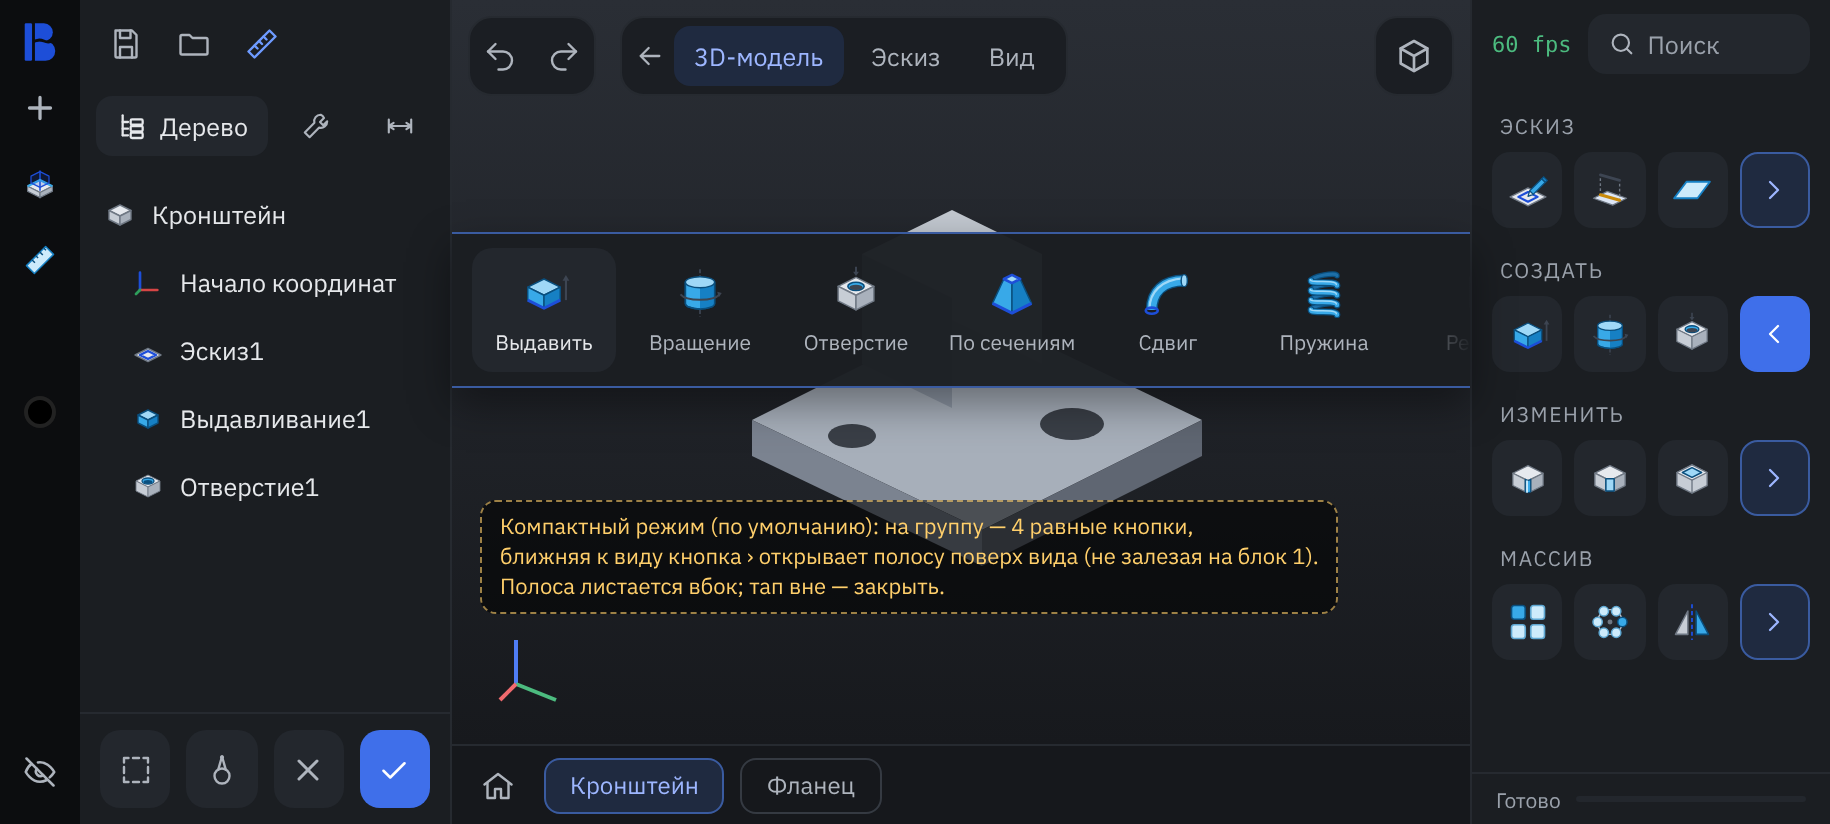
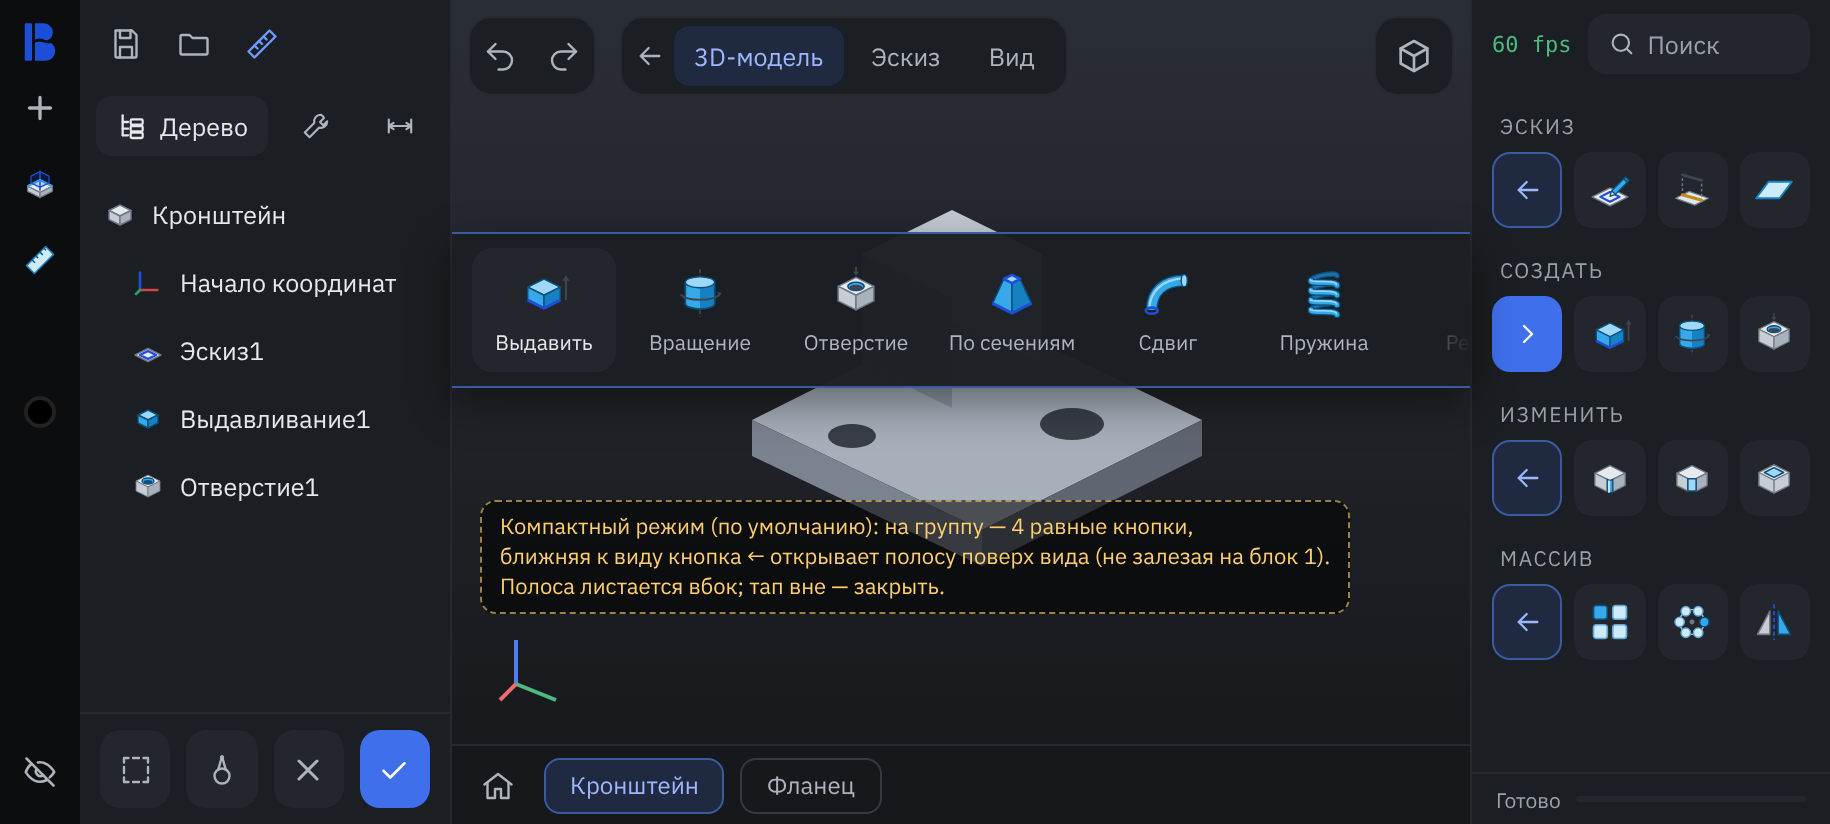
fix(mobile): the setup's tabs, cross, hint and next without a panel behind them
What: those small windows draw their own rounded backgrounds; the window's
own (wider) panel showed behind the hint. Docs: what was built from the
mockups; compact block 2's mockup with the arrow on the view's side, as built.
Tested: Android x86_64 build; the emulator's screenshot of the setup.

Claude-Session: https://claude.ai/code/session_01WVcwVnNmfhjWTSvdYGmz6M

diff --git a/src/app/mobile/LayoutEditor.cpp b/src/app/mobile/LayoutEditor.cpp
@@ -458,7 +458,7 @@ bool NextButton(ui::Ui& ui, const char* id, const char* label, ImVec2 at) {
 }
 
 /// A panel of the setup (its own window: touches on it are not the view's).
-bool BeginPanel(ui::Ui& ui, const char* id, ImVec2 pos, ImVec2 size) {
+bool BeginPanel(ui::Ui& ui, const char* id, ImVec2 pos, ImVec2 size, bool clear = false) {
     const ui::ThemeColors& c = ui.C();
     ImGui::SetNextWindowPos(pos);
     ImGui::SetNextWindowSize(size);
@@ -469,7 +469,8 @@ bool BeginPanel(ui::Ui& ui, const char* id, ImVec2 pos, ImVec2 size) {
     ImGui::PushStyleColor(ImGuiCol_Border, ui::ToVec4(c.fieldBorder));
     const bool open = ImGui::Begin(id, nullptr,
                                    ImGuiWindowFlags_NoDecoration | ImGuiWindowFlags_NoMove | ImGuiWindowFlags_NoSavedSettings |
-                                       ImGuiWindowFlags_NoNav | ImGuiWindowFlags_NoScrollWithMouse);
+                                       ImGuiWindowFlags_NoNav | ImGuiWindowFlags_NoScrollWithMouse |
+                                       (clear ? ImGuiWindowFlags_NoBackground : 0));
     ImGui::PopStyleColor(2);
     ImGui::PopStyleVar(3);
     ImGui::BringWindowToDisplayFront(ImGui::GetCurrentWindow());
@@ -614,13 +615,13 @@ void DrawSetup(AppContext& app) {
     }
     // The tabs, the cross and "next": small panels of their own.
     const float tabsW = SetupTabsWidth(ui);
-    if (BeginPanel(ui, "##setup-tabs", {(v.min.x + v.max.x - tabsW) / 2, v.min.y + ui.S(8)}, {tabsW, ui.S(42)})) {
+    if (BeginPanel(ui, "##setup-tabs", {(v.min.x + v.max.x - tabsW) / 2, v.min.y + ui.S(8)}, {tabsW, ui.S(42)}, true)) {
         SetupTabs(app, {(v.min.x + v.max.x) / 2, v.min.y + ui.S(8)});
     }
     ImGui::End();
     {
         const ImVec2 cs = ui.S(40, 40);
-        if (BeginPanel(ui, "##setup-close", {io.DisplaySize.x - cs.x - ui.S(10), ui.S(10)}, cs)) close = CloseButton(ui, "##setup-x");
+        if (BeginPanel(ui, "##setup-close", {io.DisplaySize.x - cs.x - ui.S(10), ui.S(10)}, cs, true)) close = CloseButton(ui, "##setup-x");
         ImGui::End();
     }
     {
@@ -628,12 +629,12 @@ void DrawSetup(AppContext& app) {
         const float bw = ui.fonts.strong->CalcTextSizeA(ui.S(14), FLT_MAX, 0, label).x + ui.S(54);
         const ImVec2 corner = m.setupStep == 1 ? ImVec2{v.max.x - ui.S(12), v.max.y - ui.S(12)}
                                                : ImVec2{(v.min.x + v.max.x + bw) / 2, v.max.y - ui.S(12)};
-        if (BeginPanel(ui, "##setup-next", {corner.x - bw, corner.y - ui.S(42)}, {bw, ui.S(42)})) next = NextButton(ui, "##next", label, corner);
+        if (BeginPanel(ui, "##setup-next", {corner.x - bw, corner.y - ui.S(42)}, {bw, ui.S(42)}, true)) next = NextButton(ui, "##next", label, corner);
         ImGui::End();
     }
     if (m.setupStep == 1) {
         // What the fingers do, under the tabs.
-        if (BeginPanel(ui, "##setup-hint", {(v.min.x + v.max.x) / 2 - ui.S(170), v.min.y + ui.S(56)}, {ui.S(340), ui.S(26)}))
+        if (BeginPanel(ui, "##setup-hint", {(v.min.x + v.max.x) / 2 - ui.S(170), v.min.y + ui.S(56)}, {ui.S(340), ui.S(26)}, true))
             Tag(ui, {(v.min.x + v.max.x) / 2, v.min.y + ui.S(69)}, Tr("1 палец — вращение · 2 — сдвиг · щипок — масштаб"));
         ImGui::End();
     }

diff --git a/docs/dev/mockups/gen.py b/docs/dev/mockups/gen.py
@@ -191,8 +191,8 @@ COMPACT_CSS = """
 """
 def cgroup(title, icons_, opened=False):
     cells = ''.join(f'<div>{icon(i, 22, "#fff")}</div>' for i in icons_[:3])
-    more = f'<div class="more">{icon("ui-chevron-right", 16, "#9db6ff")}</div>' if not opened else f'<div class="more" style="background:var(--acc);border-color:var(--acc)">{icon("ui-chevron-right", 16, "#fff", "transform:rotate(180deg)")}</div>'
-    return f'<div class="cg"><div class="h">{title}</div><div class="r">{cells}{more}</div></div>'
+    more = f'<div class="more">{icon("ui-arrow-left", 16, "#9db6ff")}</div>' if not opened else f'<div class="more" style="background:var(--acc);border-color:var(--acc)">{icon("ui-chevron-right", 16, "#fff")}</div>'
+    return f'<div class="cg"><div class="h">{title}</div><div class="r">{more}{cells}</div></div>'
 
 b2c = f'''<div class="abs b2"><div class="brow" style="gap:8px;padding:0 10px"><span style="font-size:11px;color:#4CBB7F;font-family:monospace">60 fps</span><div class="search">{icon('ui-search', 14)}Поиск</div></div>
 {cgroup('ЭСКИЗ', ['sketch', 'sk-project', 'work-plane'])}{cgroup('СОЗДАТЬ', ['extrude', 'revolve', 'hole'], True)}{cgroup('ИЗМЕНИТЬ', ['fillet', 'chamfer', 'shell'])}{cgroup('МАССИВ', ['pattern-rect', 'pattern-circular', 'mirror'])}
@@ -201,7 +201,7 @@ fly_items = [('extrude', 'Выдавить'), ('revolve', 'Вращение'), (
 fly = '<div class="abs fly">' + ''.join(f'<div class="ti{" on" if n == "extrude" else ""}">{icon(n, 26, "#fff")}{t}</div>' for n, t in fly_items) + \
       '<div class="abs" style="right:0;top:0;bottom:0;width:40px;background:linear-gradient(90deg,transparent,rgba(27,30,34,.97))"></div></div>'
 pages['3-block2-compact'] = page(camera() + block1() + view() + b2c + strip() + fly +
-    note('Компактный режим (по умолчанию): на группу — 4 равные кнопки,<br>ближняя к виду кнопка ›  открывает полосу поверх вида (не залезая на блок 1).<br>Полоса листается вбок; тап вне — закрыть.', 'left:240px;top:250px'),
+    note('Компактный режим (по умолчанию): на группу — 4 равные кнопки,<br>ближняя к виду кнопка ← открывает полосу поверх вида (не залезая на блок 1).<br>Полоса листается вбок; тап вне — закрыть.', 'left:240px;top:250px'),
     COMPACT_CSS)
 
 # 4. Settings, Minecraft-like: big tabs on the left, a two-column grid of wide buttons/sliders.
